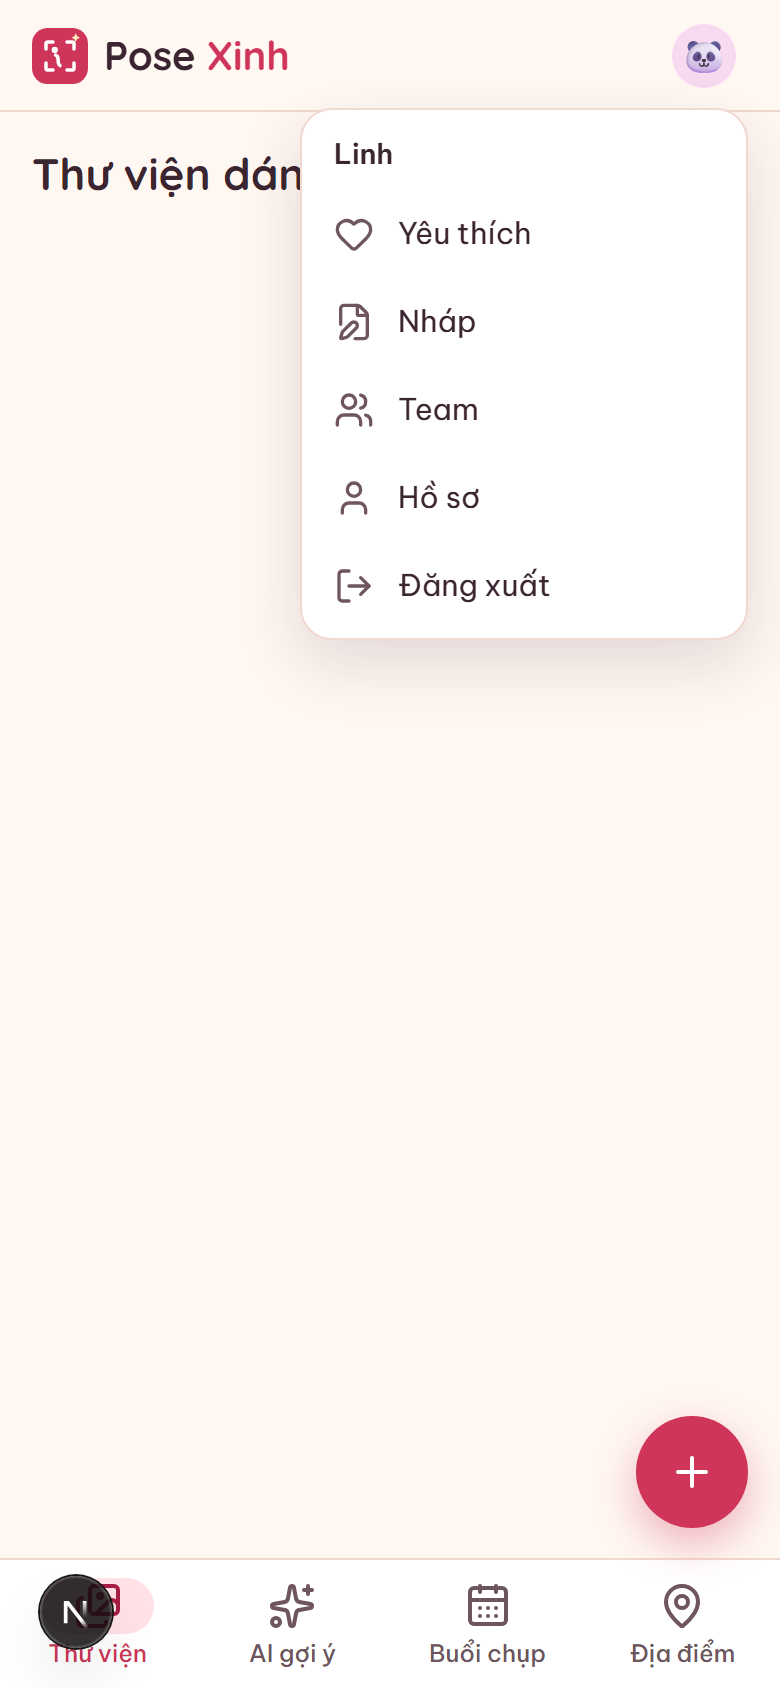
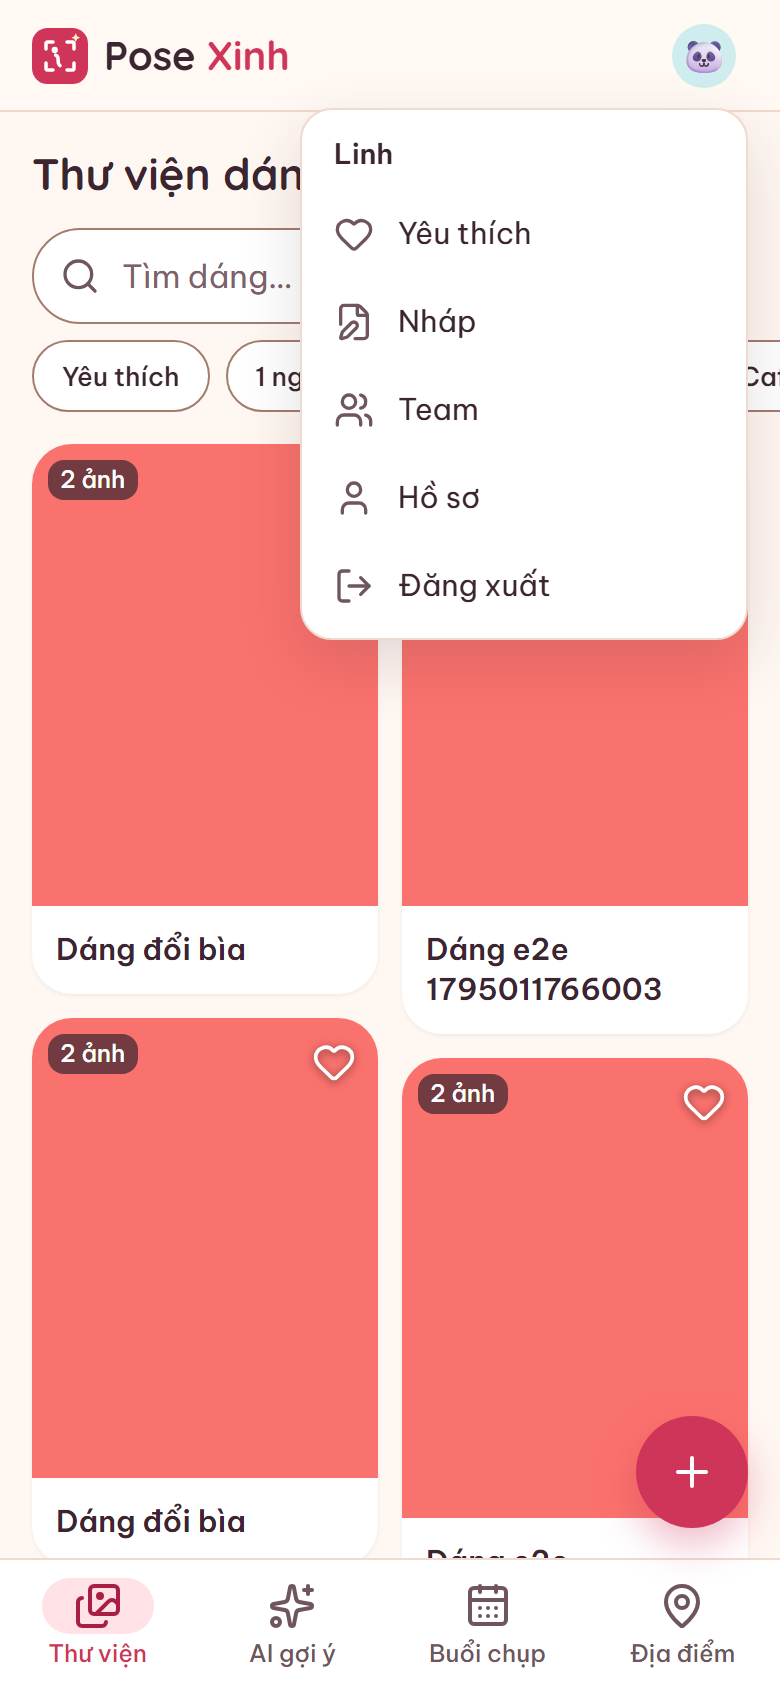
chore: integrate library, pose form, AI and shoots features
- use the shoots add-to-shoot sheet from the library and pose detail
- mount online presence avatars in the header, hide the FAB on pose detail
- regenerate database types (consume_ai_quota) and drop the quota cast
- stable DndContext id on the shoot list to fix a hydration mismatch
- e2e: one worker against a production build, paced keyboard drags,
  auto-retrying reorder assertions
- RLS storage test removes its uploaded file
- document AI_MODEL in .env.example

diff --git a/src/components/shell/app-shell.tsx b/src/components/shell/app-shell.tsx
@@ -1,6 +1,7 @@
 'use client';
 
 import { usePathname } from 'next/navigation';
+import { OnlineAvatarStack } from '@/components/team/online-avatar-stack';
 import { Logo } from '@/components/ui/logo';
 import { AddFab } from './add-fab';
 import { AvatarMenu } from './avatar-menu';
@@ -15,6 +16,8 @@ export type ShellProfile = {
 
 /** Routes that use the full screen (own sticky action bar): no tab bar or FAB there. */
 const IMMERSIVE_ROUTES = [/^\/poses\/new$/, /^\/poses\/[^/]+\/edit$/];
+/** Pose detail has its own bottom action bar, which the FAB would cover. */
+const NO_FAB_ROUTES = [/^\/poses\/[^/]+$/];
 
 /**
  * Mobile app frame: sticky header (logo + avatar menu), content, bottom tab bar, FAB.
@@ -23,12 +26,16 @@ const IMMERSIVE_ROUTES = [/^\/poses\/new$/, /^\/poses\/[^/]+\/edit$/];
 export function AppShell({ profile, children }: { profile: ShellProfile; children: React.ReactNode }) {
   const pathname = usePathname();
   const immersive = IMMERSIVE_ROUTES.some((re) => re.test(pathname));
+  const showFab = !NO_FAB_ROUTES.some((re) => re.test(pathname));
 
   return (
     <div className="flex min-h-dvh flex-col">
       <header className="sticky top-0 z-30 flex h-14 items-center justify-between border-b border-border bg-bg/95 px-4 pt-[env(safe-area-inset-top)] backdrop-blur">
         <Logo size={28} />
-        <AvatarMenu profile={profile} />
+        <div className="flex items-center gap-2">
+          <OnlineAvatarStack />
+          <AvatarMenu profile={profile} />
+        </div>
       </header>
       <main
         className="mx-auto w-full max-w-[1200px] flex-1 px-4 pt-4 md:px-6"
@@ -39,7 +46,7 @@ export function AppShell({ profile, children }: { profile: ShellProfile; childre
       {immersive ? null : (
         <>
           <BottomTabBar />
-          <AddFab />
+          {showFab ? <AddFab /> : null}
         </>
       )}
     </div>

diff --git a/tests/e2e/pose-form-create-edit.spec.ts b/tests/e2e/pose-form-create-edit.spec.ts
@@ -52,16 +52,19 @@ test('reordering images in the edit form changes the cover', async ({ page }) =>
   await expect(tiles(page)).toHaveCount(2);
   const secondId = await tiles(page).nth(1).getAttribute('data-image-id');
   await page.getByRole('button', { name: 'Kéo để đổi thứ tự ảnh 2' }).focus();
+  // dnd-kit's keyboard sensor needs a frame between lift, move and drop (as a human would type).
   await page.keyboard.press('Space');
+  await page.waitForTimeout(150);
   await page.keyboard.press('ArrowLeft');
+  await page.waitForTimeout(150);
   await page.keyboard.press('Space');
-  await expect(tiles(page).first().getByText('Ảnh bìa')).toBeVisible();
+  await expect(tiles(page).first()).toHaveAttribute('data-image-id', secondId!);
   await page.getByRole('button', { name: 'Lưu thay đổi' }).click();
   await expect(page).toHaveURL(new RegExp(`/poses/${id}$`));
 
   await page.goto(`/poses/${id}/edit`);
+  await expect(tiles(page).first()).toHaveAttribute('data-image-id', secondId!);
   await expect(tiles(page).first().getByText('Ảnh bìa')).toBeVisible();
-  expect(await tiles(page).first().getAttribute('data-image-id')).toBe(secondId);
 });
 
 test('cancelling uploads nothing; AI button stays locked without a key', async ({ page }) => {

diff --git a/playwright.config.ts b/playwright.config.ts
@@ -5,9 +5,12 @@ export default defineConfig({
   testDir: './tests/e2e',
   timeout: 60_000,
   fullyParallel: false,
+  // One worker: specs share one local Supabase and the dev server compiles routes on first hit,
+  // so parallel files time out waiting on cold compiles.
+  workers: 1,
   reporter: [['list']],
   use: {
-    baseURL: 'http://localhost:3000',
+    baseURL: 'http://localhost:3100',
     viewport: { width: 390, height: 844 },
     deviceScaleFactor: 2,
     hasTouch: true,
@@ -15,10 +18,12 @@ export default defineConfig({
     trace: 'retain-on-failure',
   },
   projects: [{ name: 'mobile-chromium', use: { browserName: 'chromium' } }],
+  // Production build on its own port: no on-demand route compiles (which made specs flaky on
+  // dev), and it never collides with a dev server on :3000.
   webServer: {
-    command: 'npm run dev',
-    url: 'http://localhost:3000/login',
-    reuseExistingServer: true,
-    timeout: 120_000,
+    command: 'npm run build && npx next start -p 3100',
+    url: 'http://localhost:3100/login',
+    reuseExistingServer: false,
+    timeout: 240_000,
   },
 });

diff --git a/src/components/pose/pose-infinite-grid.tsx b/src/components/pose/pose-infinite-grid.tsx
@@ -10,7 +10,7 @@ import { listPoseCards } from '@/lib/poses/pose-card-query';
 import { useLibraryFilters } from '@/lib/poses/use-library-filters';
 import { createSupabaseBrowserClient } from '@/lib/supabase/browser-client';
 import type { PoseCardData, PoseFilters } from '@/lib/types/pose';
-import { AddToShootSheet } from './add-to-shoot-sheet';
+import { AddToShootSheet } from '@/components/shoot/add-to-shoot-sheet';
 import { PoseCardGrid } from './pose-card-grid';
 
 /** Skeleton cards with different heights so the loading state looks like the masonry. */
@@ -155,7 +155,7 @@ export function PoseInfiniteGrid({
         open={shootSheet}
         onOpenChange={setShootSheet}
         poseIds={[...selected]}
-        onDone={exitSelection}
+        onAdded={exitSelection}
       />
     </>
   );

diff --git a/tests/e2e/shoots-flow.spec.ts b/tests/e2e/shoots-flow.spec.ts
@@ -29,9 +29,12 @@ test('shoot: create, reorder by keyboard, mark done, reload keeps state', async 
 
   // Move A below B with the keyboard sensor: focus handle, Space to lift, ArrowDown, Space to drop.
   const handle = page.getByRole('button', { name: `Kéo để sắp xếp ${titles[0]}` });
+  // dnd-kit's keyboard sensor needs a frame between lift, move and drop (as a human would type).
   await handle.focus();
   await page.keyboard.press('Space');
+  await page.waitForTimeout(150);
   await page.keyboard.press('ArrowDown');
+  await page.waitForTimeout(150);
   await page.keyboard.press('Space');
   await expect(rows.nth(0)).toContainText(titles[1]);
   await expect(rows.nth(1)).toContainText(titles[0]);

diff --git a/tests/rls/content-access.test.ts b/tests/rls/content-access.test.ts
@@ -1,4 +1,4 @@
-import { beforeAll, describe, expect, it } from 'vitest';
+import { afterAll, beforeAll, describe, expect, it } from 'vitest';
 import { admin, anon, createMember, createTestUser, resetTeam, type TestUser } from './helpers';
 
 describe('content RLS', () => {
@@ -145,6 +145,10 @@ describe('storage bucket pose-images', () => {
     await createMember('seed-admin', 'Admin');
     member = await createMember('uploader', 'Uploader');
     outsider = await createTestUser('storage-outsider');
+  });
+
+  afterAll(async () => {
+    await admin.storage.from('pose-images').remove([path]);
   });
 
   it('is private and lets members upload and sign URLs', async () => {

diff --git a/src/components/shoot/shoot-detail-view.tsx b/src/components/shoot/shoot-detail-view.tsx
@@ -126,7 +126,7 @@ export function ShootDetailView({ shoot, canDelete }: { shoot: ShootDetail; canD
           }
         />
       ) : (
-        <DndContext sensors={sensors} collisionDetection={closestCenter} onDragEnd={onDragEnd}>
+        <DndContext id="shoot-items-sortable" sensors={sensors} collisionDetection={closestCenter} onDragEnd={onDragEnd}>
           <SortableContext items={items.map((i) => i.poseId)} strategy={verticalListSortingStrategy}>
             <ul className="flex flex-col gap-2" aria-label="Danh sách dáng cần chụp">
               {items.map((item) => (

diff --git a/src/lib/ai/ai-route-guard.ts b/src/lib/ai/ai-route-guard.ts
@@ -30,7 +30,7 @@ export async function guardAiRequest(): Promise<{ userId: string } | Response> {
 export async function spendQuotaOrResponse(userId: string): Promise<Response | null> {
   try {
     // Cast: `consume_ai_quota` is not in the generated Database types until `npm run db:types`.
-    const admin = createSupabaseAdminClient() as unknown as QuotaRpcClient;
+    const admin: QuotaRpcClient = createSupabaseAdminClient();
     const result = await consumeAiQuota(admin, userId, getDailyLimit());
     return result.allowed ? null : jsonError('ai_quota', 429);
   } catch (e) {

diff --git a/src/components/pose/pose-detail-actions.tsx b/src/components/pose/pose-detail-actions.tsx
@@ -9,7 +9,7 @@ import { Button } from '@/components/ui/button';
 import { IconButton } from '@/components/ui/icon-button';
 import { useToast } from '@/components/ui/toast';
 import { createSupabaseBrowserClient } from '@/lib/supabase/browser-client';
-import { AddToShootSheet } from './add-to-shoot-sheet';
+import { AddToShootSheet } from '@/components/shoot/add-to-shoot-sheet';
 import { PoseHeartButton } from './pose-heart-button';
 
 type Props = {

diff --git a/src/lib/types/database.ts b/src/lib/types/database.ts
@@ -235,7 +235,10 @@ isOneToOne: false
                 }
           }
           Functions: {
-            "immutable_unaccent":
+            "consume_ai_quota":
+{ Args: { "p_limit": number,"p_user_id": string }; Returns: number
+                           },
+"immutable_unaccent":
 { Args: { "input": string }; Returns: string
                            },
 "is_admin":
